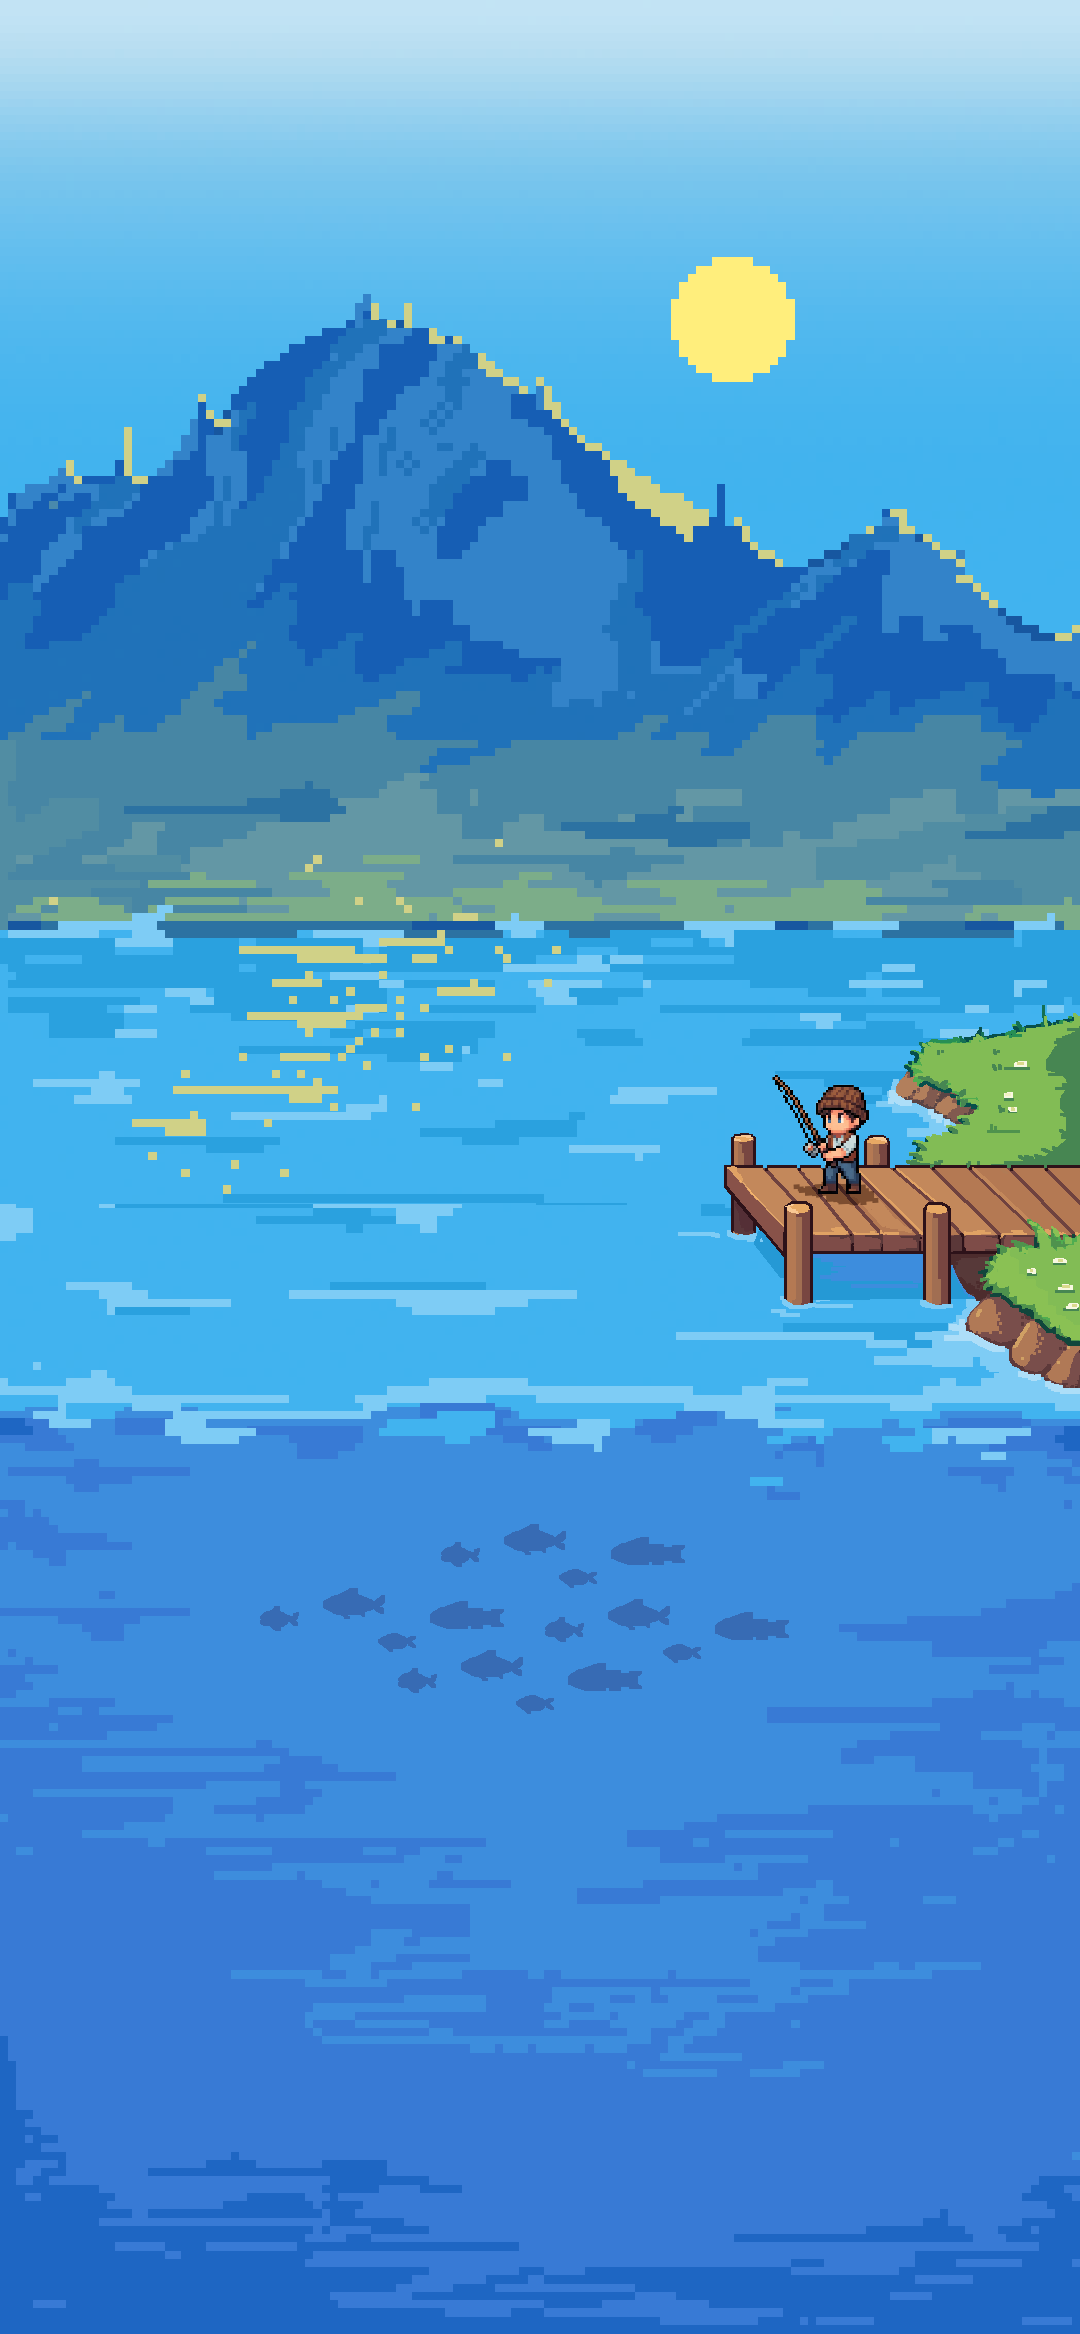
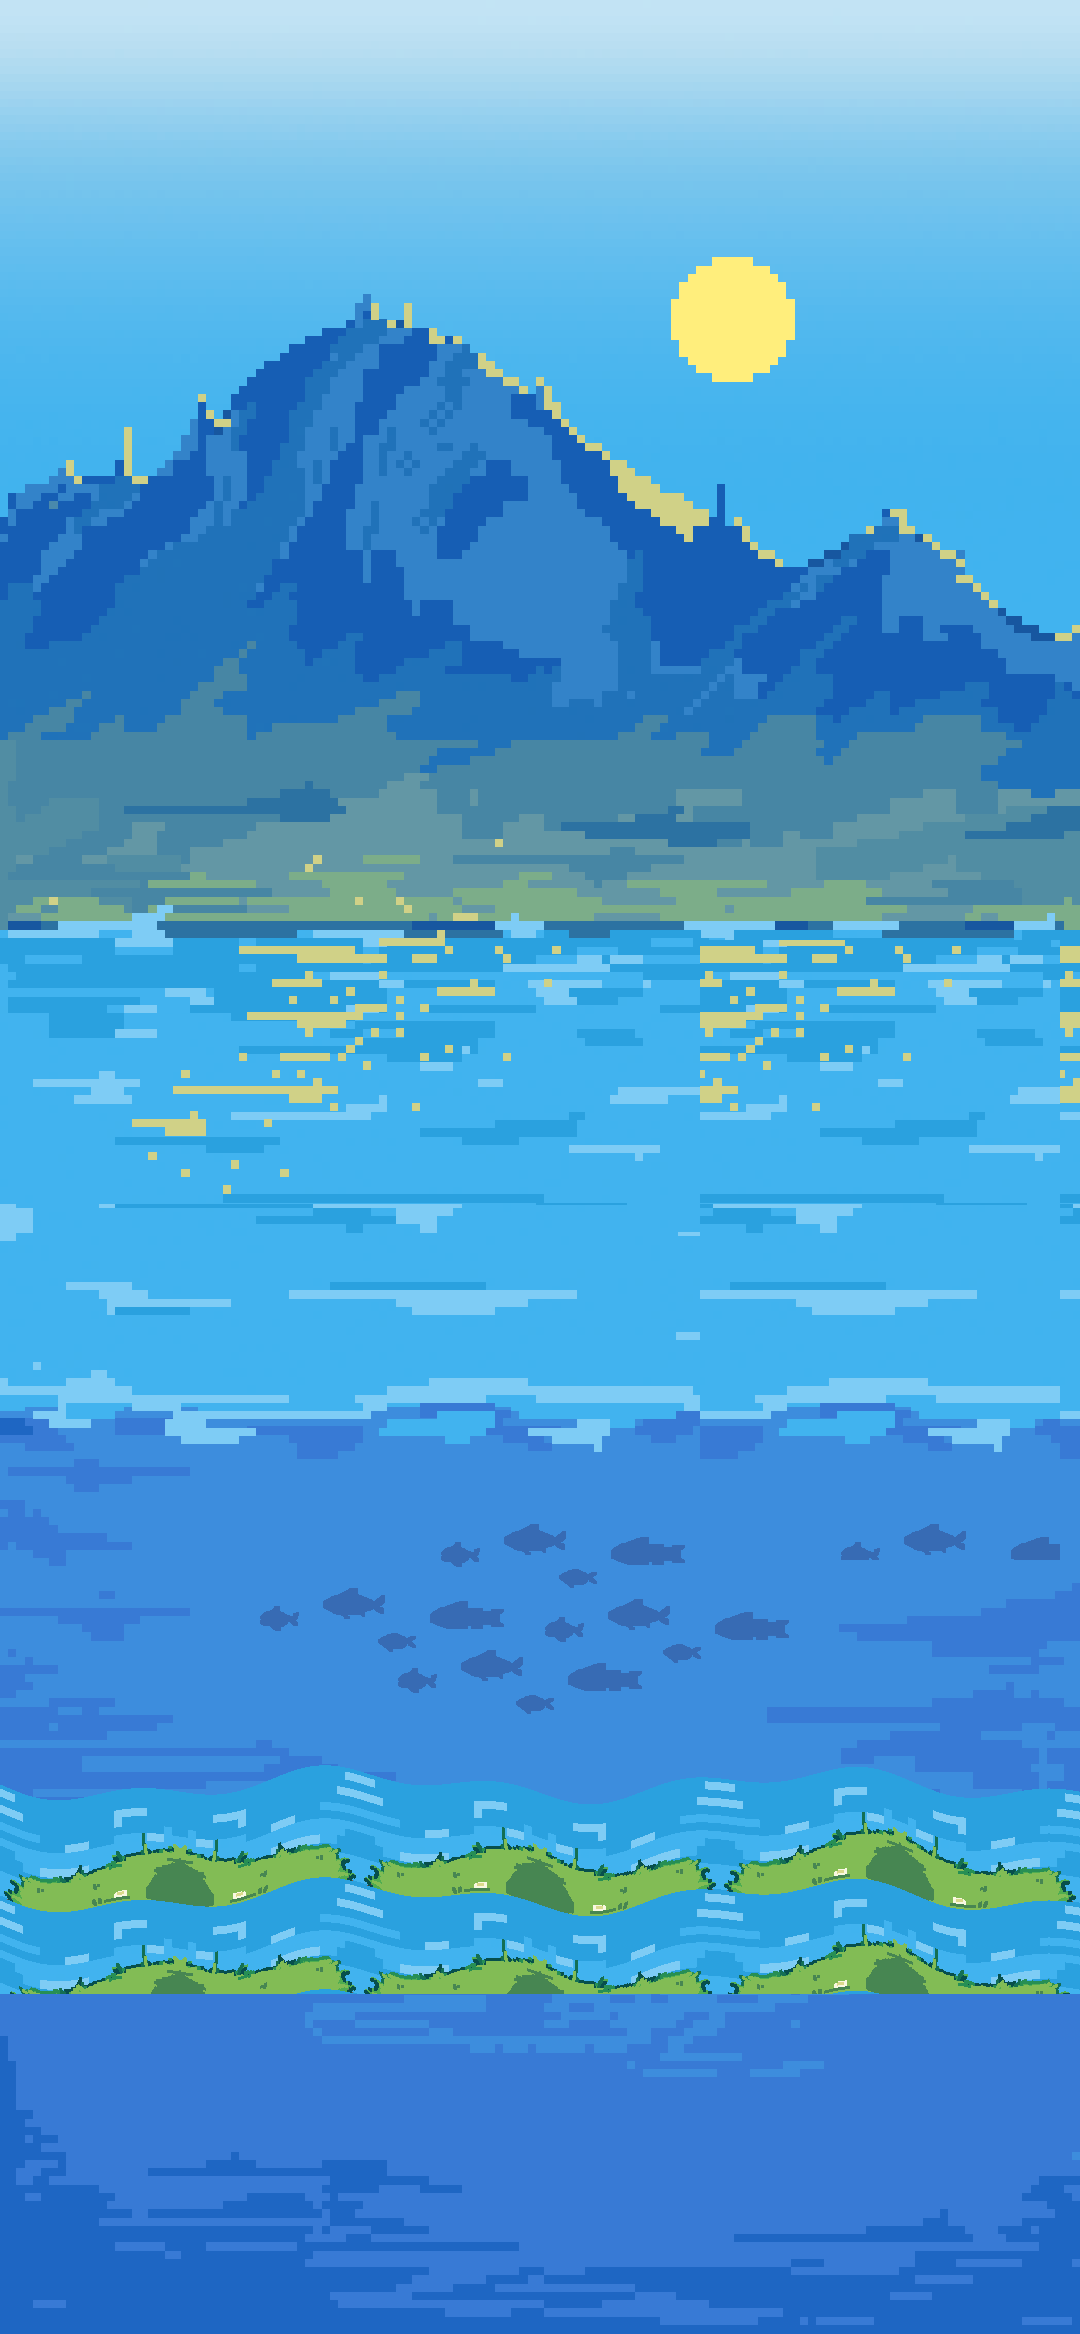
Redraw cohesive first person shoreline

Changed region(s): [[0.0, 0.7404, 1.0, 0.8638], [0.6417, 0.401, 1.0, 0.6787], [0.9472, 0.6478, 0.9778, 0.6787]]

diff --git a/build/web-cocos/game.js b/build/web-cocos/game.js
@@ -2029,8 +2029,6 @@ function drawPsdSceneOverlays() {
     drawRect(ux(32), uy(760), ux(1016), uy(72), 'rgba(230,236,238,.22)');
     drawRect(ux(80), uy(1160), ux(900), uy(58), 'rgba(230,236,238,.18)');
   }
-  drawFirstPersonScenePatch();
-  drawSceneTextureRepaint();
   const points = firstPersonPoints();
   drawFirstPersonFishingRig(points);
   if (state.phase === 'hooked') drawLayoutAsset('event_alert', 862, 902, 156, 168);

diff --git a/build/wechatgame/game.js b/build/wechatgame/game.js
@@ -2029,8 +2029,6 @@ function drawPsdSceneOverlays() {
     drawRect(ux(32), uy(760), ux(1016), uy(72), 'rgba(230,236,238,.22)');
     drawRect(ux(80), uy(1160), ux(900), uy(58), 'rgba(230,236,238,.18)');
   }
-  drawFirstPersonScenePatch();
-  drawSceneTextureRepaint();
   const points = firstPersonPoints();
   drawFirstPersonFishingRig(points);
   if (state.phase === 'hooked') drawLayoutAsset('event_alert', 862, 902, 156, 168);

diff --git a/src/runtime/game.js b/src/runtime/game.js
@@ -2028,8 +2028,6 @@ function drawPsdSceneOverlays() {
     drawRect(ux(32), uy(760), ux(1016), uy(72), 'rgba(230,236,238,.22)');
     drawRect(ux(80), uy(1160), ux(900), uy(58), 'rgba(230,236,238,.18)');
   }
-  drawFirstPersonScenePatch();
-  drawSceneTextureRepaint();
   const points = firstPersonPoints();
   drawFirstPersonFishingRig(points);
   if (state.phase === 'hooked') drawLayoutAsset('event_alert', 862, 902, 156, 168);
